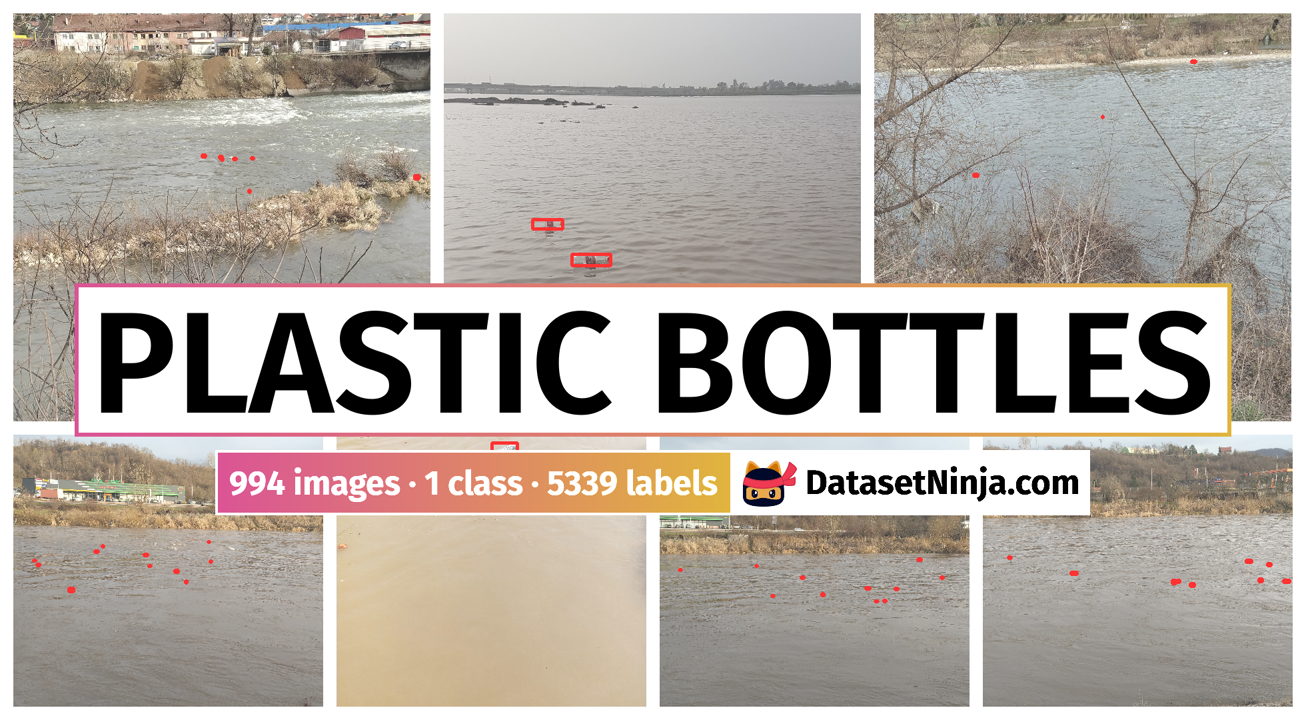
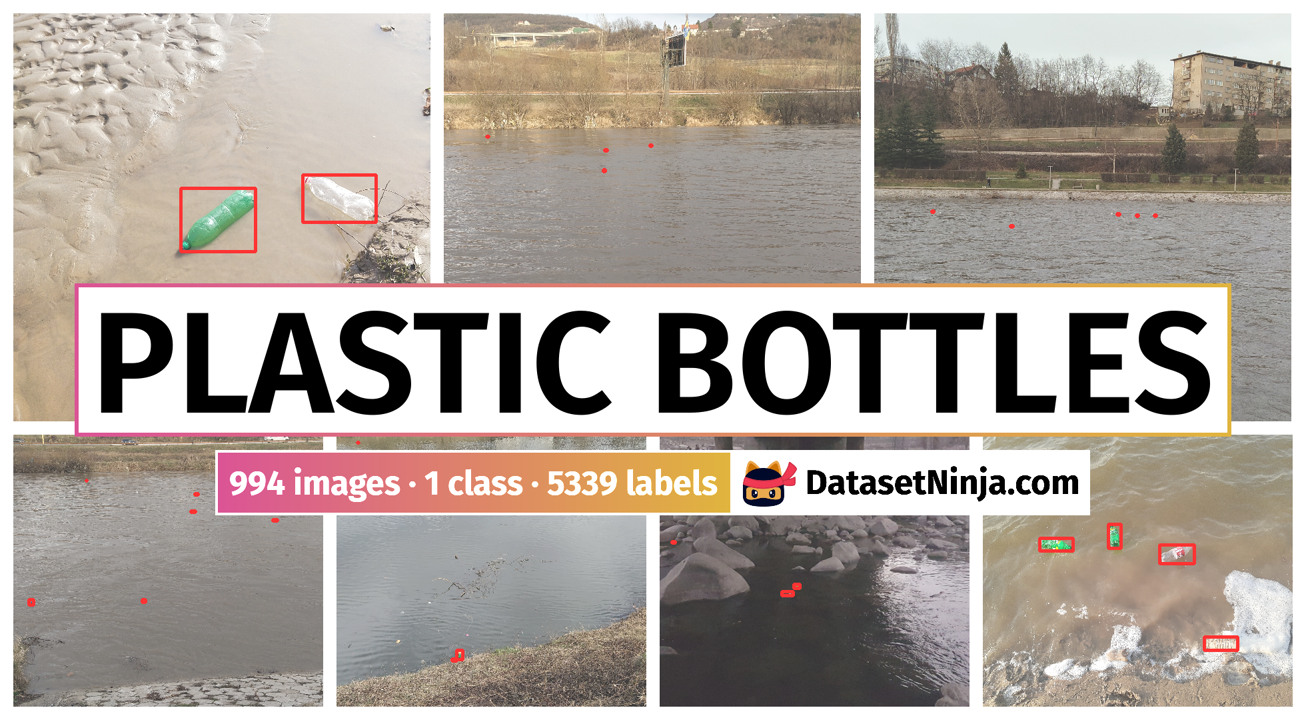
гзв сгыещь вфеф

diff --git a/src/settings.py b/src/settings.py
@@ -1,22 +1,35 @@
 from typing import Dict, List, Optional, Union
 
-from dataset_tools.templates import AnnotationType, CVTask, Industry, License
+from dataset_tools.templates import (
+    AnnotationType,
+    Category,
+    CVTask,
+    Domain,
+    Industry,
+    License,
+    Research,
+)
 
 ##################################
 # * Before uploading to instance #
 ##################################
 PROJECT_NAME: str = "Plastic Bottles"
-PROJECT_NAME_FULL: Optional[str] = "Plastic Bottles"
+PROJECT_NAME_FULL: Optional[str] = "Plastic Bottles in Rivers"
 
 ##################################
 # * After uploading to instance ##
 ##################################
 LICENSE: License = License.CC0_1_0()
-INDUSTRIES: List[Industry] = [Industry.Industrial()]
+APPLICATIONS: List[Union[Industry, Domain, Research]] = [Domain.Environmental(is_used=False)]
+CATEGORY: Category = Category.Environmental()
+
 CV_TASKS: List[CVTask] = [CVTask.ObjectDetection()]
 ANNOTATION_TYPES: List[AnnotationType] = [AnnotationType.ObjectDetection()]
 
-RELEASE_YEAR: int = 2020
+RELEASE_DATE: Optional[str] = "2020-11-26"  # e.g. "YYYY-MM-DD"
+if RELEASE_DATE is None:
+    RELEASE_YEAR: int = None
+
 HOMEPAGE_URL: str = "https://github.com/m0-n/Plastic-Bottles-Dataset"
 # e.g. "https://some.com/dataset/homepage"
 
@@ -39,8 +52,12 @@ CLASS2COLOR: Optional[Dict[str, List[str]]] = {"Plastic Bottle": [255, 0, 0]}
 
 PAPER: Optional[str] = None
 CITATION_URL: Optional[str] = None
+AUTHORS: Optional[List[str]] = ["m0-n"]
+
 ORGANIZATION_NAME: Optional[Union[str, List[str]]] = None
 ORGANIZATION_URL: Optional[Union[str, List[str]]] = None
+
+SLYTAGSPLIT: Optional[Dict[str, List[str]]] = None
 TAGS: List[str] = None
 
 ##################################
@@ -55,10 +72,15 @@ def check_names():
 
 
 def get_settings():
+    if RELEASE_DATE is not None:
+        global RELEASE_YEAR
+        RELEASE_YEAR = int(RELEASE_DATE.split("-")[0])
+
     settings = {
         "project_name": PROJECT_NAME,
         "license": LICENSE,
-        "industries": INDUSTRIES,
+        "applications": APPLICATIONS,
+        "category": CATEGORY,
         "cv_tasks": CV_TASKS,
         "annotation_types": ANNOTATION_TYPES,
         "release_year": RELEASE_YEAR,
@@ -70,13 +92,16 @@ def get_settings():
     if any([field is None for field in settings.values()]):
         raise ValueError("Please fill all fields in settings.py after uploading to instance.")
 
+    settings["release_date"] = RELEASE_DATE
     settings["project_name_full"] = PROJECT_NAME_FULL or PROJECT_NAME
     settings["download_original_url"] = DOWNLOAD_ORIGINAL_URL
     settings["class2color"] = CLASS2COLOR
     settings["paper"] = PAPER
     settings["citation_url"] = CITATION_URL
+    settings["authors"] = AUTHORS
     settings["organization_name"] = ORGANIZATION_NAME
     settings["organization_url"] = ORGANIZATION_URL
-    settings["tags"] = TAGS if TAGS is not None else []
+    settings["slytagsplit"] = SLYTAGSPLIT
+    settings["tags"] = TAGS
 
     return settings

diff --git a/src/options.py b/src/options.py
@@ -4,7 +4,7 @@
 
 # * Literal["ClassesPreview", "HorizontalGrid", "SideAnnotationsGrid"]
 # * If None, then preview_class will be set automatically to "ClassesPreview"
-PREVIEW_CLASS = "HorizontalGrid"
+PREVIEW_CLASS = "Poster"
 
 IS_DETECTION_TASK: bool = None  # ? Set True if you want to visualize only bbox annotations
 

diff --git a/SUMMARY.md b/SUMMARY.md
@@ -1,9 +1,7 @@
-**Plastic Bottles** is a dataset for object detection tasks. It is used in the industrial industry.
+**Plastic Bottles in Rivers** is a dataset for object detection tasks. Possible applications of the dataset could be in the environmental domain. 
 
 The dataset consists of 994 images with 5339 labeled objects belonging to 1 single class (*Plastic Bottle*).
 
-Each image in the Plastic Bottles dataset has bounding boxes annotations. There are 21 (2% of the total) unlabeled images (i.e. without annotations). There is 1 split in the dataset: *ds0* (994 images). The dataset was released in 2020.
+Images in the Plastic Bottles dataset have bounding box annotations. There are 21 (2% of the total) unlabeled images (i.e. without annotations). There are no pre-defined <i>train/val/test</i> splits in the dataset. The dataset was released in 2020.
 
-Here is the visualized example grid with annotations:
-
-<img src="https://github.com/dataset-ninja/plastic-bottles/raw/main/visualizations/horizontal_grid.png">
+<img src="https://github.com/dataset-ninja/plastic-bottles/raw/main/visualizations/poster.png">

diff --git a/CITATION.md b/CITATION.md
@@ -1,11 +1,11 @@
 If you make use of the Plastic Bottles data, please cite the following reference:
 
-```bibtex
-@misc{Plastic Bottles,
-	author = "m0-n",
-	title = "Plastic Bottles",
-	year = {2020},
-	url = "https://github.com/m0-n/Plastic-Bottles-Dataset"
+``` bibtex 
+@dataset{Plastic Bottles,
+	author={m0-n},
+	title={5592 Plastic Bottles in Rivers Dataset},
+	year={2020},
+	url={https://github.com/m0-n/Plastic-Bottles-Dataset}
 }
 ```
 
